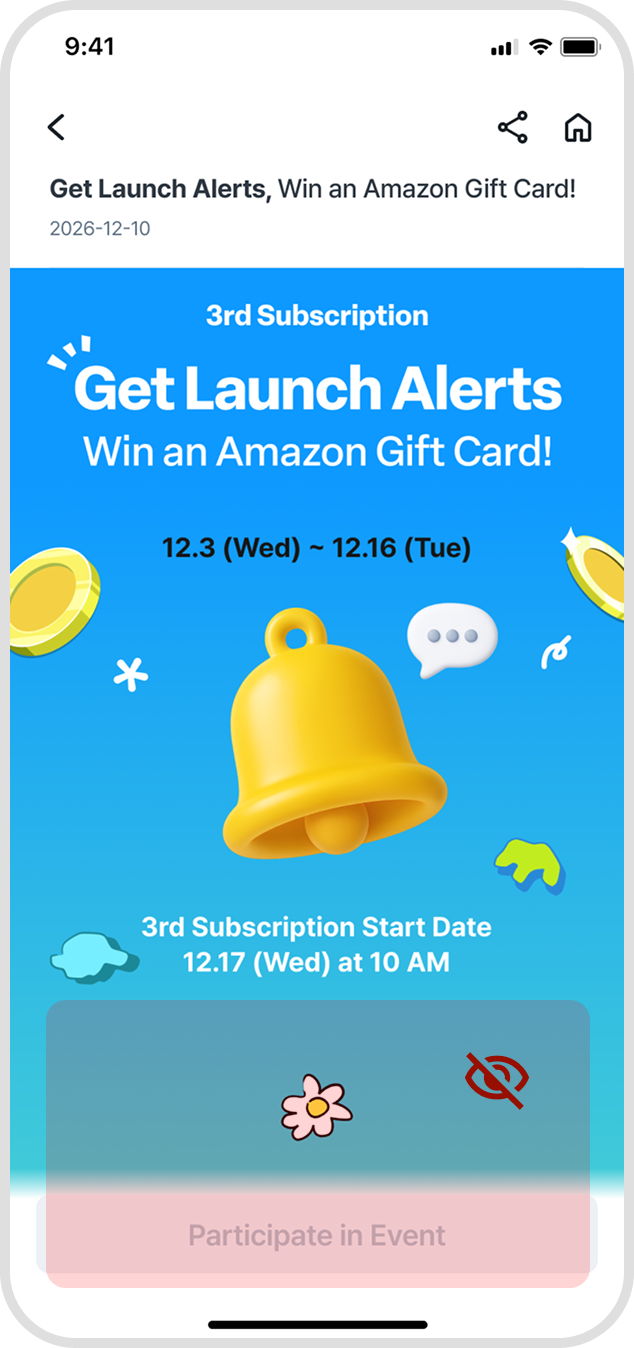
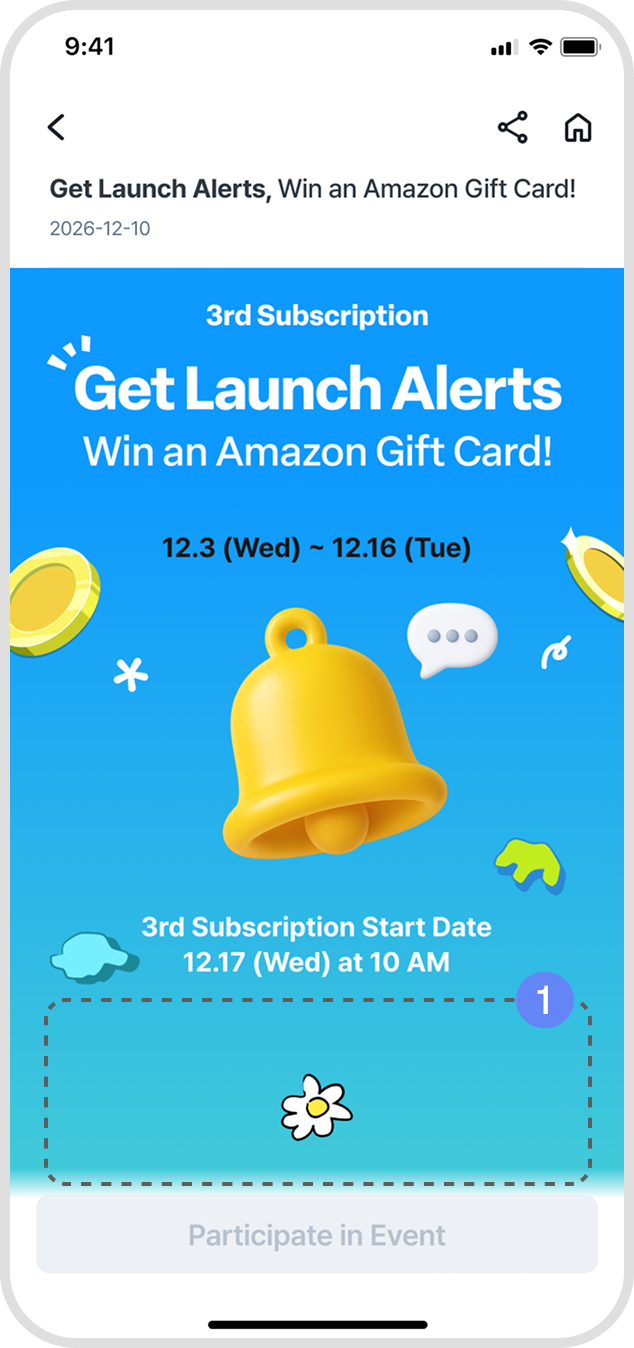
main

Changed region(s): [[0.0599, 0.7166, 0.959, 0.9659]]

diff --git a/case-study.css b/case-study.css
@@ -689,7 +689,7 @@
   letter-spacing: var(--heading-letter-spacing);
 }
 .case-study .cs-architecture-grid { display: grid; grid-template-columns: repeat(2, minmax(0, 1fr)); grid-auto-rows: 1fr; align-items: stretch; gap: 16px; }
-.case-study .cs-architecture-card { display: flex; flex-direction: column; gap: 24px; min-width: 0; padding: 24px; border: 1px solid transparent; border-radius: 24px; }
+.case-study .cs-architecture-card { display: flex; flex-direction: column; gap: 24px; min-width: 0; padding: 24px; border: 1px solid var(--border-default); border-radius: 24px; }
 .case-study .cs-architecture-card > .label,
 .case-study .cs-challenge .label,
 .case-study .cs-architecture-header > .label { font-weight: 700; }
@@ -698,6 +698,28 @@
 .case-study .cs-architecture-card-body > img { flex: 0 0 60px; }
 .case-study .cs-architecture-card-body > div { display: grid; min-width: 0; gap: 8px; }
 .case-study .cs-architecture-card h3 { margin: 0; font-size: var(--heading-h3-font-size); font-weight: var(--font-weight-medium); line-height: var(--heading-h3-line-height); letter-spacing: var(--heading-h3-letter-spacing); }
+@media (min-width: 1200px) {
+  .case-study .cs-architecture-grid {
+    --architecture-gap: var(--space-7);
+    grid-template-columns: repeat(4, minmax(0, 1fr));
+    gap: var(--architecture-gap);
+  }
+  .case-study .cs-architecture-grid > .cs-architecture-card:not(:last-child) {
+    position: relative;
+  }
+  .case-study .cs-architecture-grid > .cs-architecture-card:not(:last-child)::after {
+    content: "";
+    position: absolute;
+    top: 50%;
+    left: calc(100% + var(--architecture-gap) / 2);
+    width: 24px;
+    height: 24px;
+    transform: translate(-50%, -50%);
+    background: url("assets/artipio/voc/arrow.svg") center / contain no-repeat;
+    pointer-events: none;
+  }
+  .case-study .cs-architecture-card-body { flex-direction: column; align-items: flex-start; gap: var(--space-3); }
+}
 @media (max-width: 800px) {
   .case-study .cs-architecture-grid { grid-template-columns: minmax(0, 1fr); }
   .case-study .cs-architecture-card { padding: 20px; }

diff --git a/artipio_new.html b/artipio_new.html
@@ -326,7 +326,8 @@
                 <div class="cs-consent-icon"><img src="img/artipio-new/consent-visibility-off.svg" width="145"
                     height="145" alt="" /></div>
                 <div class="cs-consent-problem-copy">
-                  <h3>Hidden Consent Options</h3>
+                  <h3 class="cs-deposit-numbered-title"><span class="cs-deposit-problem-number">1</span><span>Hidden
+                      Consent Options</span></h3>
                   <p class="secondary">Users struggled to locate consent checkboxes at the bottom of long event pages.
                   </p>
                 </div>

diff --git a/artipio_design_system.html b/artipio_design_system.html
@@ -279,7 +279,6 @@
           </div>
           <div class="ds-specs label secondary" role="status" aria-atomic="true">
             <p id="ds-specifications"></p>
-            <p id="ds-touch-note" hidden>* Proposed accessibility enhancement; not implemented in the original app.</p>
           </div>
         </section>
 
